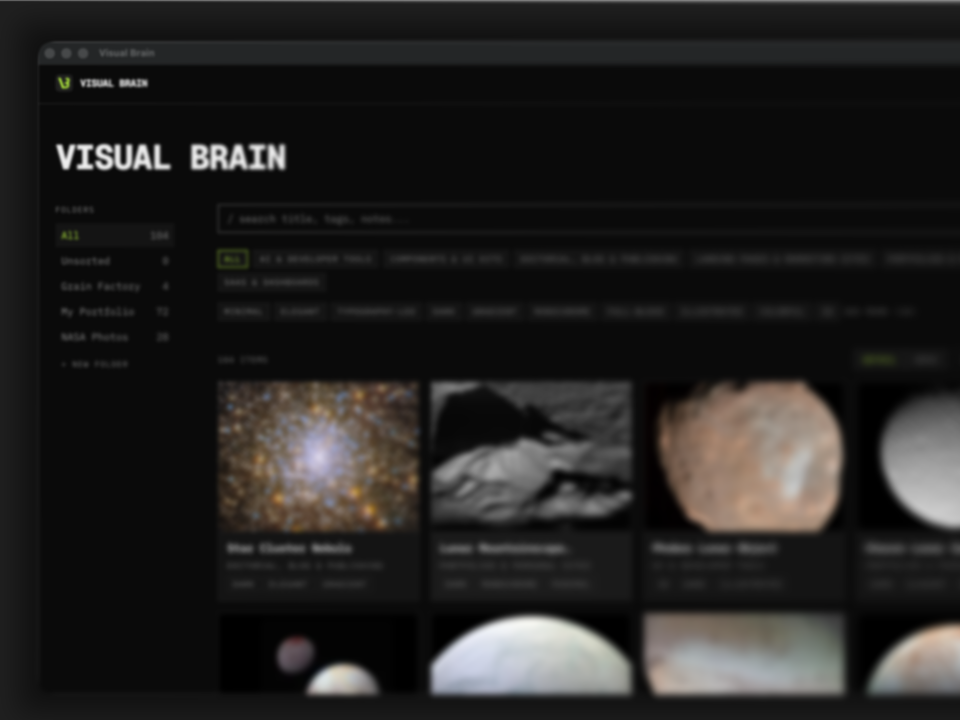
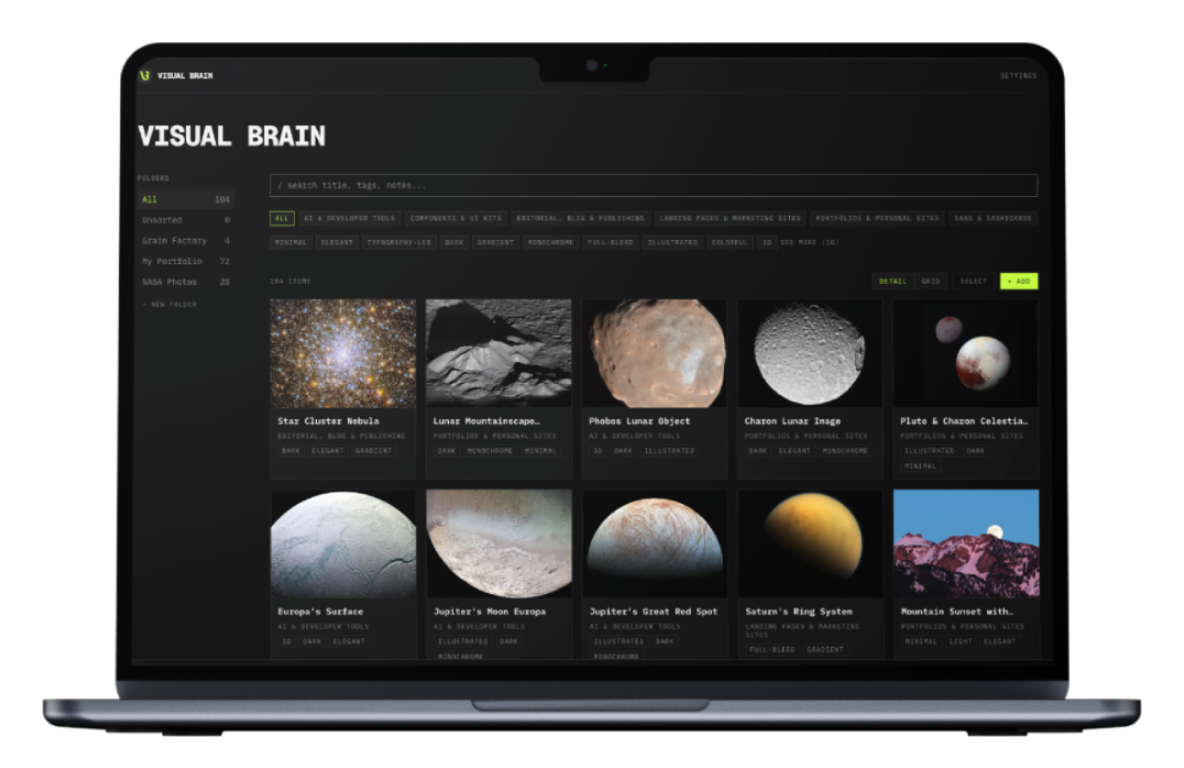
Device mockup covers for Website builder and Visual Brain
Transparent 1184x768 PNGs that sit on the theme's cover color, shown whole (object-fit: contain).

Claude-Session: https://claude.ai/code/session_017ihcmk5iDQmULtsYiLRMT6

diff --git a/index.html b/index.html
@@ -25,7 +25,7 @@
   <link rel="preconnect" href="https://fonts.googleapis.com" />
   <link rel="preconnect" href="https://fonts.gstatic.com" crossorigin />
   <link href="https://fonts.googleapis.com/css2?family=Geist:wght@200..800&display=swap" rel="stylesheet" />
-  <link rel="stylesheet" href="home.css?v=10" />
+  <link rel="stylesheet" href="home.css?v=11" />
 </head>
 <body>
   <div class="home" id="top">
@@ -67,7 +67,7 @@
 
       <article class="card c1">
         <a class="cover" href="website-builder.html" tabindex="-1" aria-hidden="true">
-          <img src="assets/images/website-builder-cover.png" alt="" width="960" height="720" loading="lazy" decoding="async" />
+          <img class="device" src="assets/images/website-builder-cover.png?v=2" alt="" width="1184" height="768" loading="lazy" decoding="async" />
         </a>
         <div class="card-meta">
           <p class="card-kicker">Ynmo · Web</p>
@@ -79,7 +79,7 @@
 
       <article class="card c2">
         <a class="cover" href="visual-brain.html" tabindex="-1" aria-hidden="true">
-          <img src="assets/images/visual-brain-cover.png" alt="" width="960" height="720" loading="lazy" decoding="async" />
+          <img class="device" src="assets/images/visual-brain-cover.png?v=3" alt="" width="1184" height="768" loading="lazy" decoding="async" />
         </a>
         <div class="card-meta">
           <p class="card-kicker">Side project · Design and code</p>

diff --git a/home.css b/home.css
@@ -47,6 +47,8 @@ a:focus-visible { outline: 2px solid var(--ink); outline-offset: 4px; }
 .cover { background: var(--cover); overflow: hidden; display: flex; align-items: center; justify-content: center; }
 .cover img { width: 100%; height: 100%; object-fit: cover; transition: transform 0.6s cubic-bezier(0.2, 0.7, 0.2, 1); }
 a.cover:hover img { transform: scale(1.02); }
+/* device mockups (transparent PNGs, 1184 x 768): show the whole device on the theme's cover color */
+.cover img.device { object-fit: contain; }
 .cover .small { font-weight: 500; }
 .card-meta { display: flex; flex-direction: column; }
 .card-kicker { font-weight: 300; color: var(--faint); }

diff --git a/visual-brain.html b/visual-brain.html
@@ -22,7 +22,7 @@
   <link rel="preconnect" href="https://fonts.googleapis.com" />
   <link rel="preconnect" href="https://fonts.gstatic.com" crossorigin />
   <link href="https://fonts.googleapis.com/css2?family=Geist:wght@200..800&display=swap" rel="stylesheet" />
-  <link rel="stylesheet" href="home.css?v=10" />
+  <link rel="stylesheet" href="home.css?v=11" />
   <link rel="stylesheet" href="case.css?v=5" />
 </head>
 <body>

diff --git a/website-builder.html b/website-builder.html
@@ -22,7 +22,7 @@
   <link rel="preconnect" href="https://fonts.googleapis.com" />
   <link rel="preconnect" href="https://fonts.gstatic.com" crossorigin />
   <link href="https://fonts.googleapis.com/css2?family=Geist:wght@200..800&display=swap" rel="stylesheet" />
-  <link rel="stylesheet" href="home.css?v=10" />
+  <link rel="stylesheet" href="home.css?v=11" />
   <link rel="stylesheet" href="case.css?v=5" />
 </head>
 <body>
